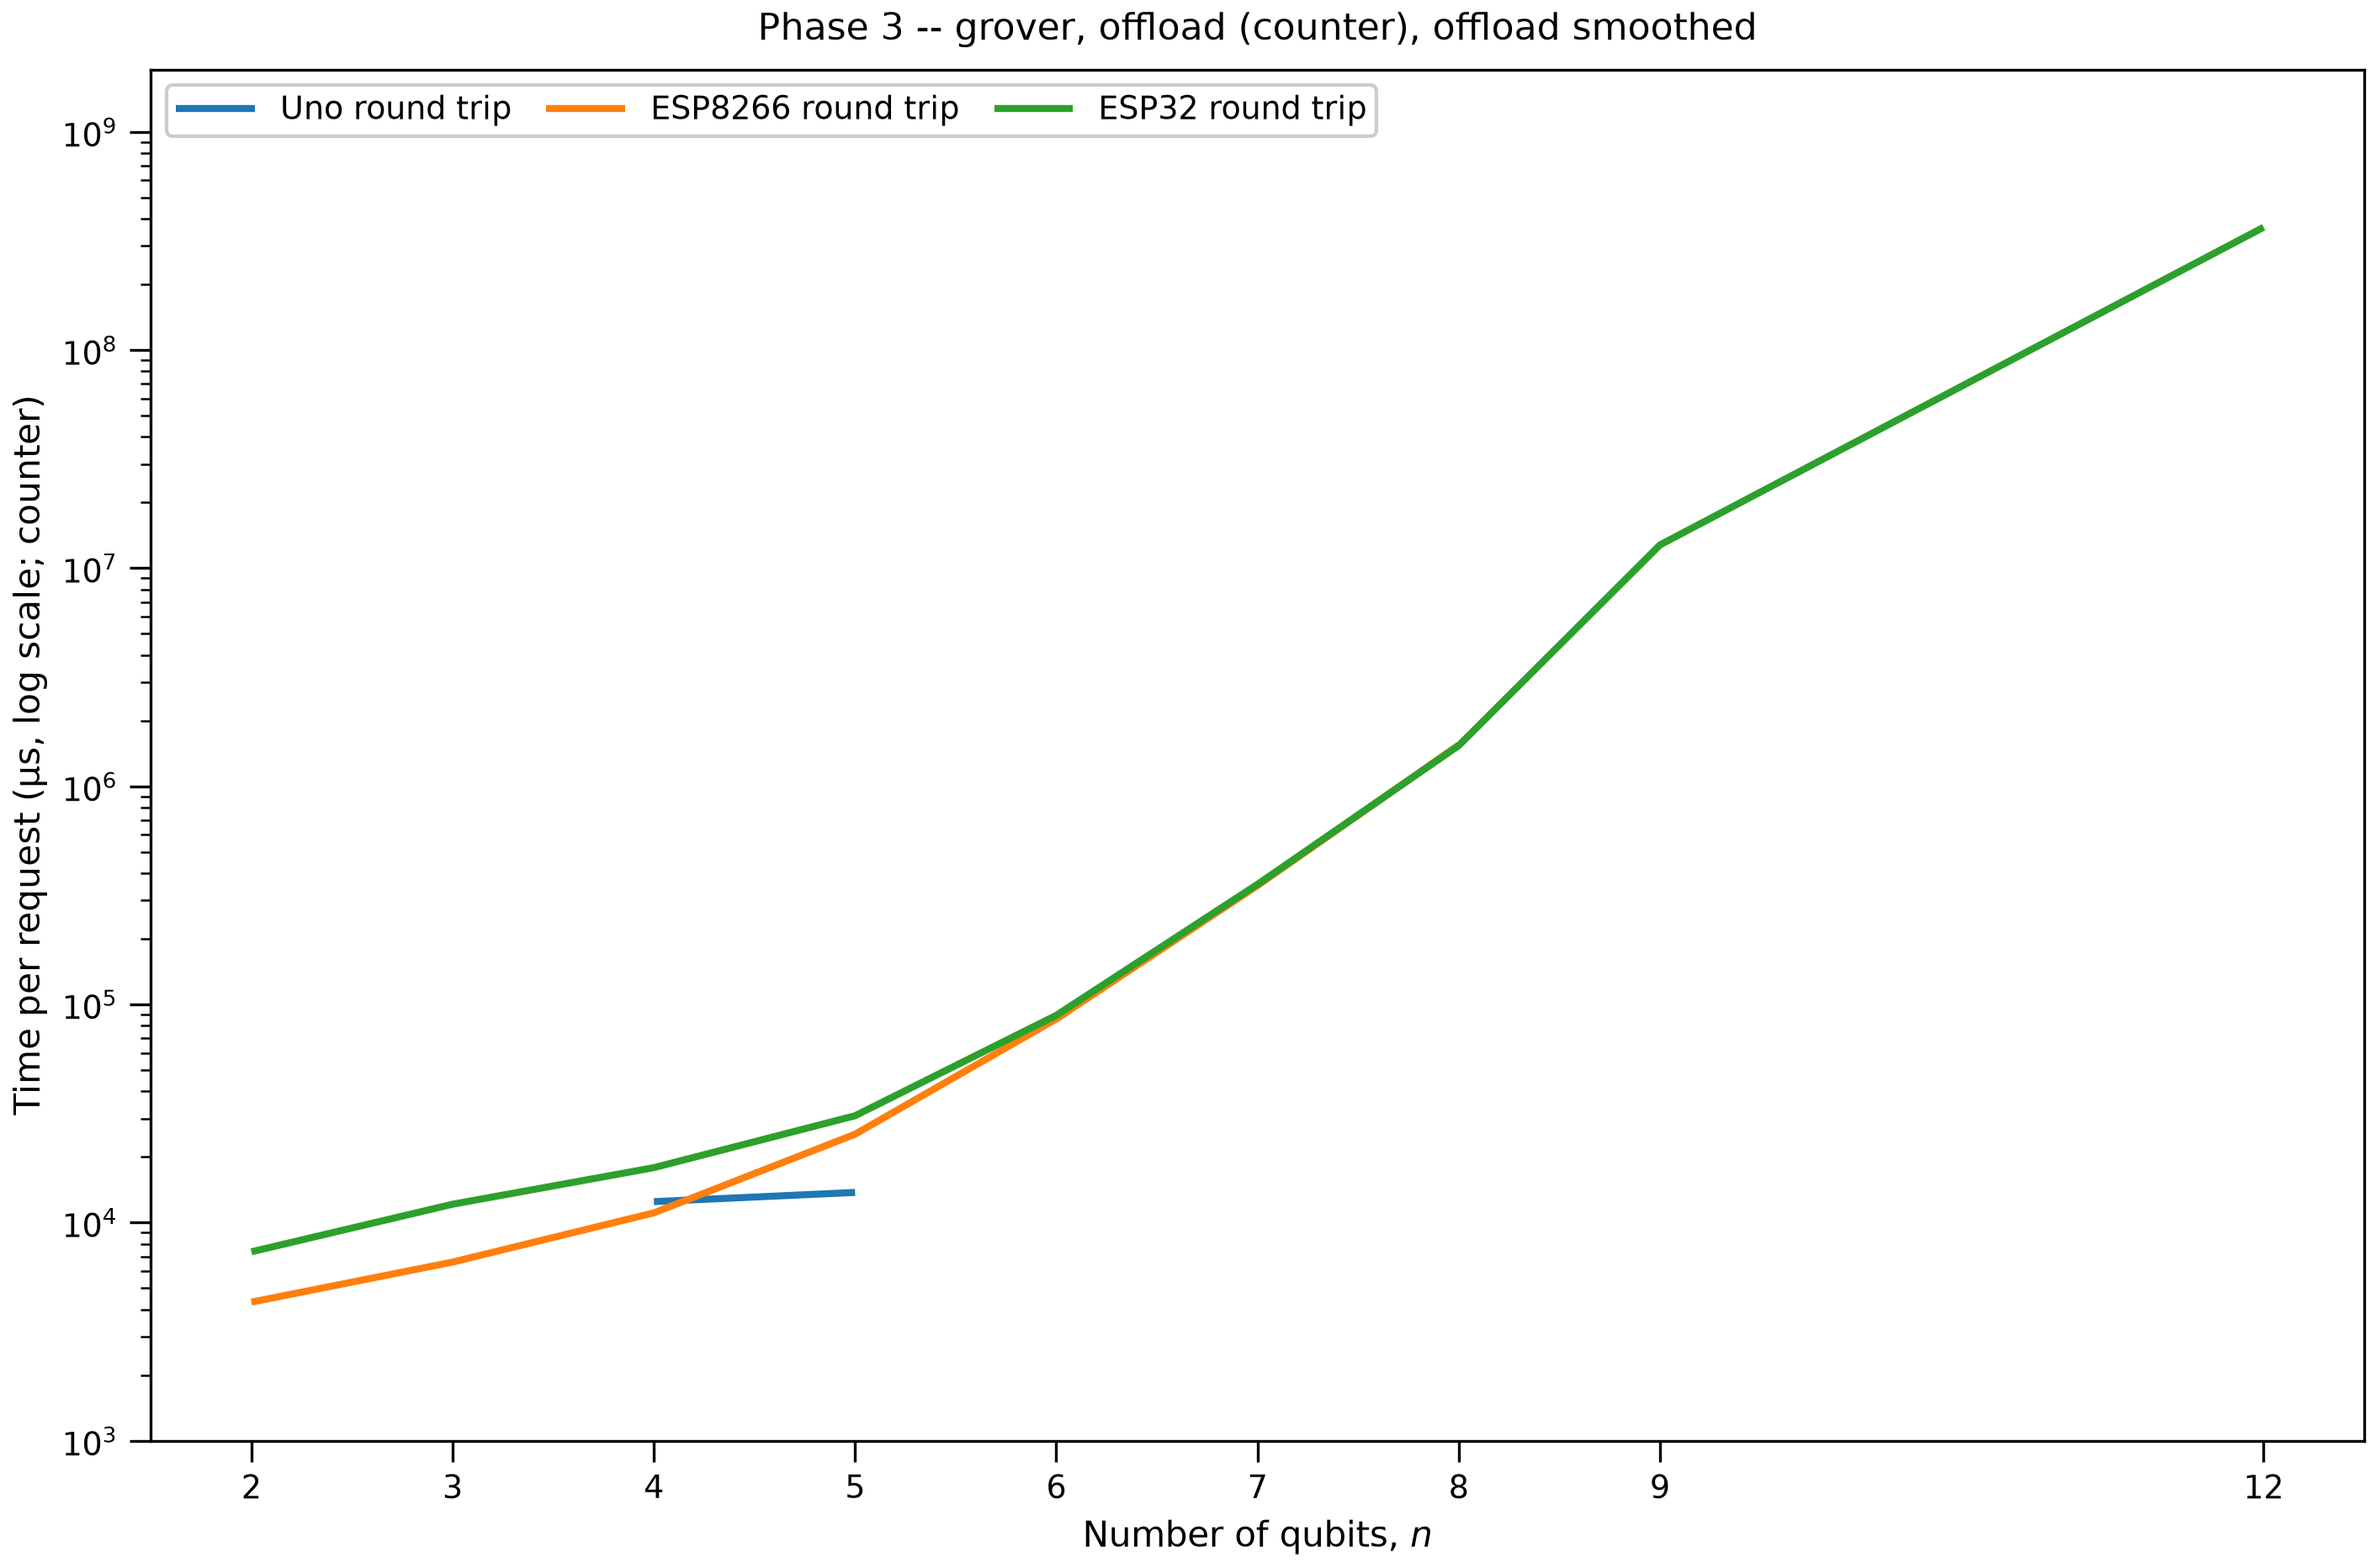
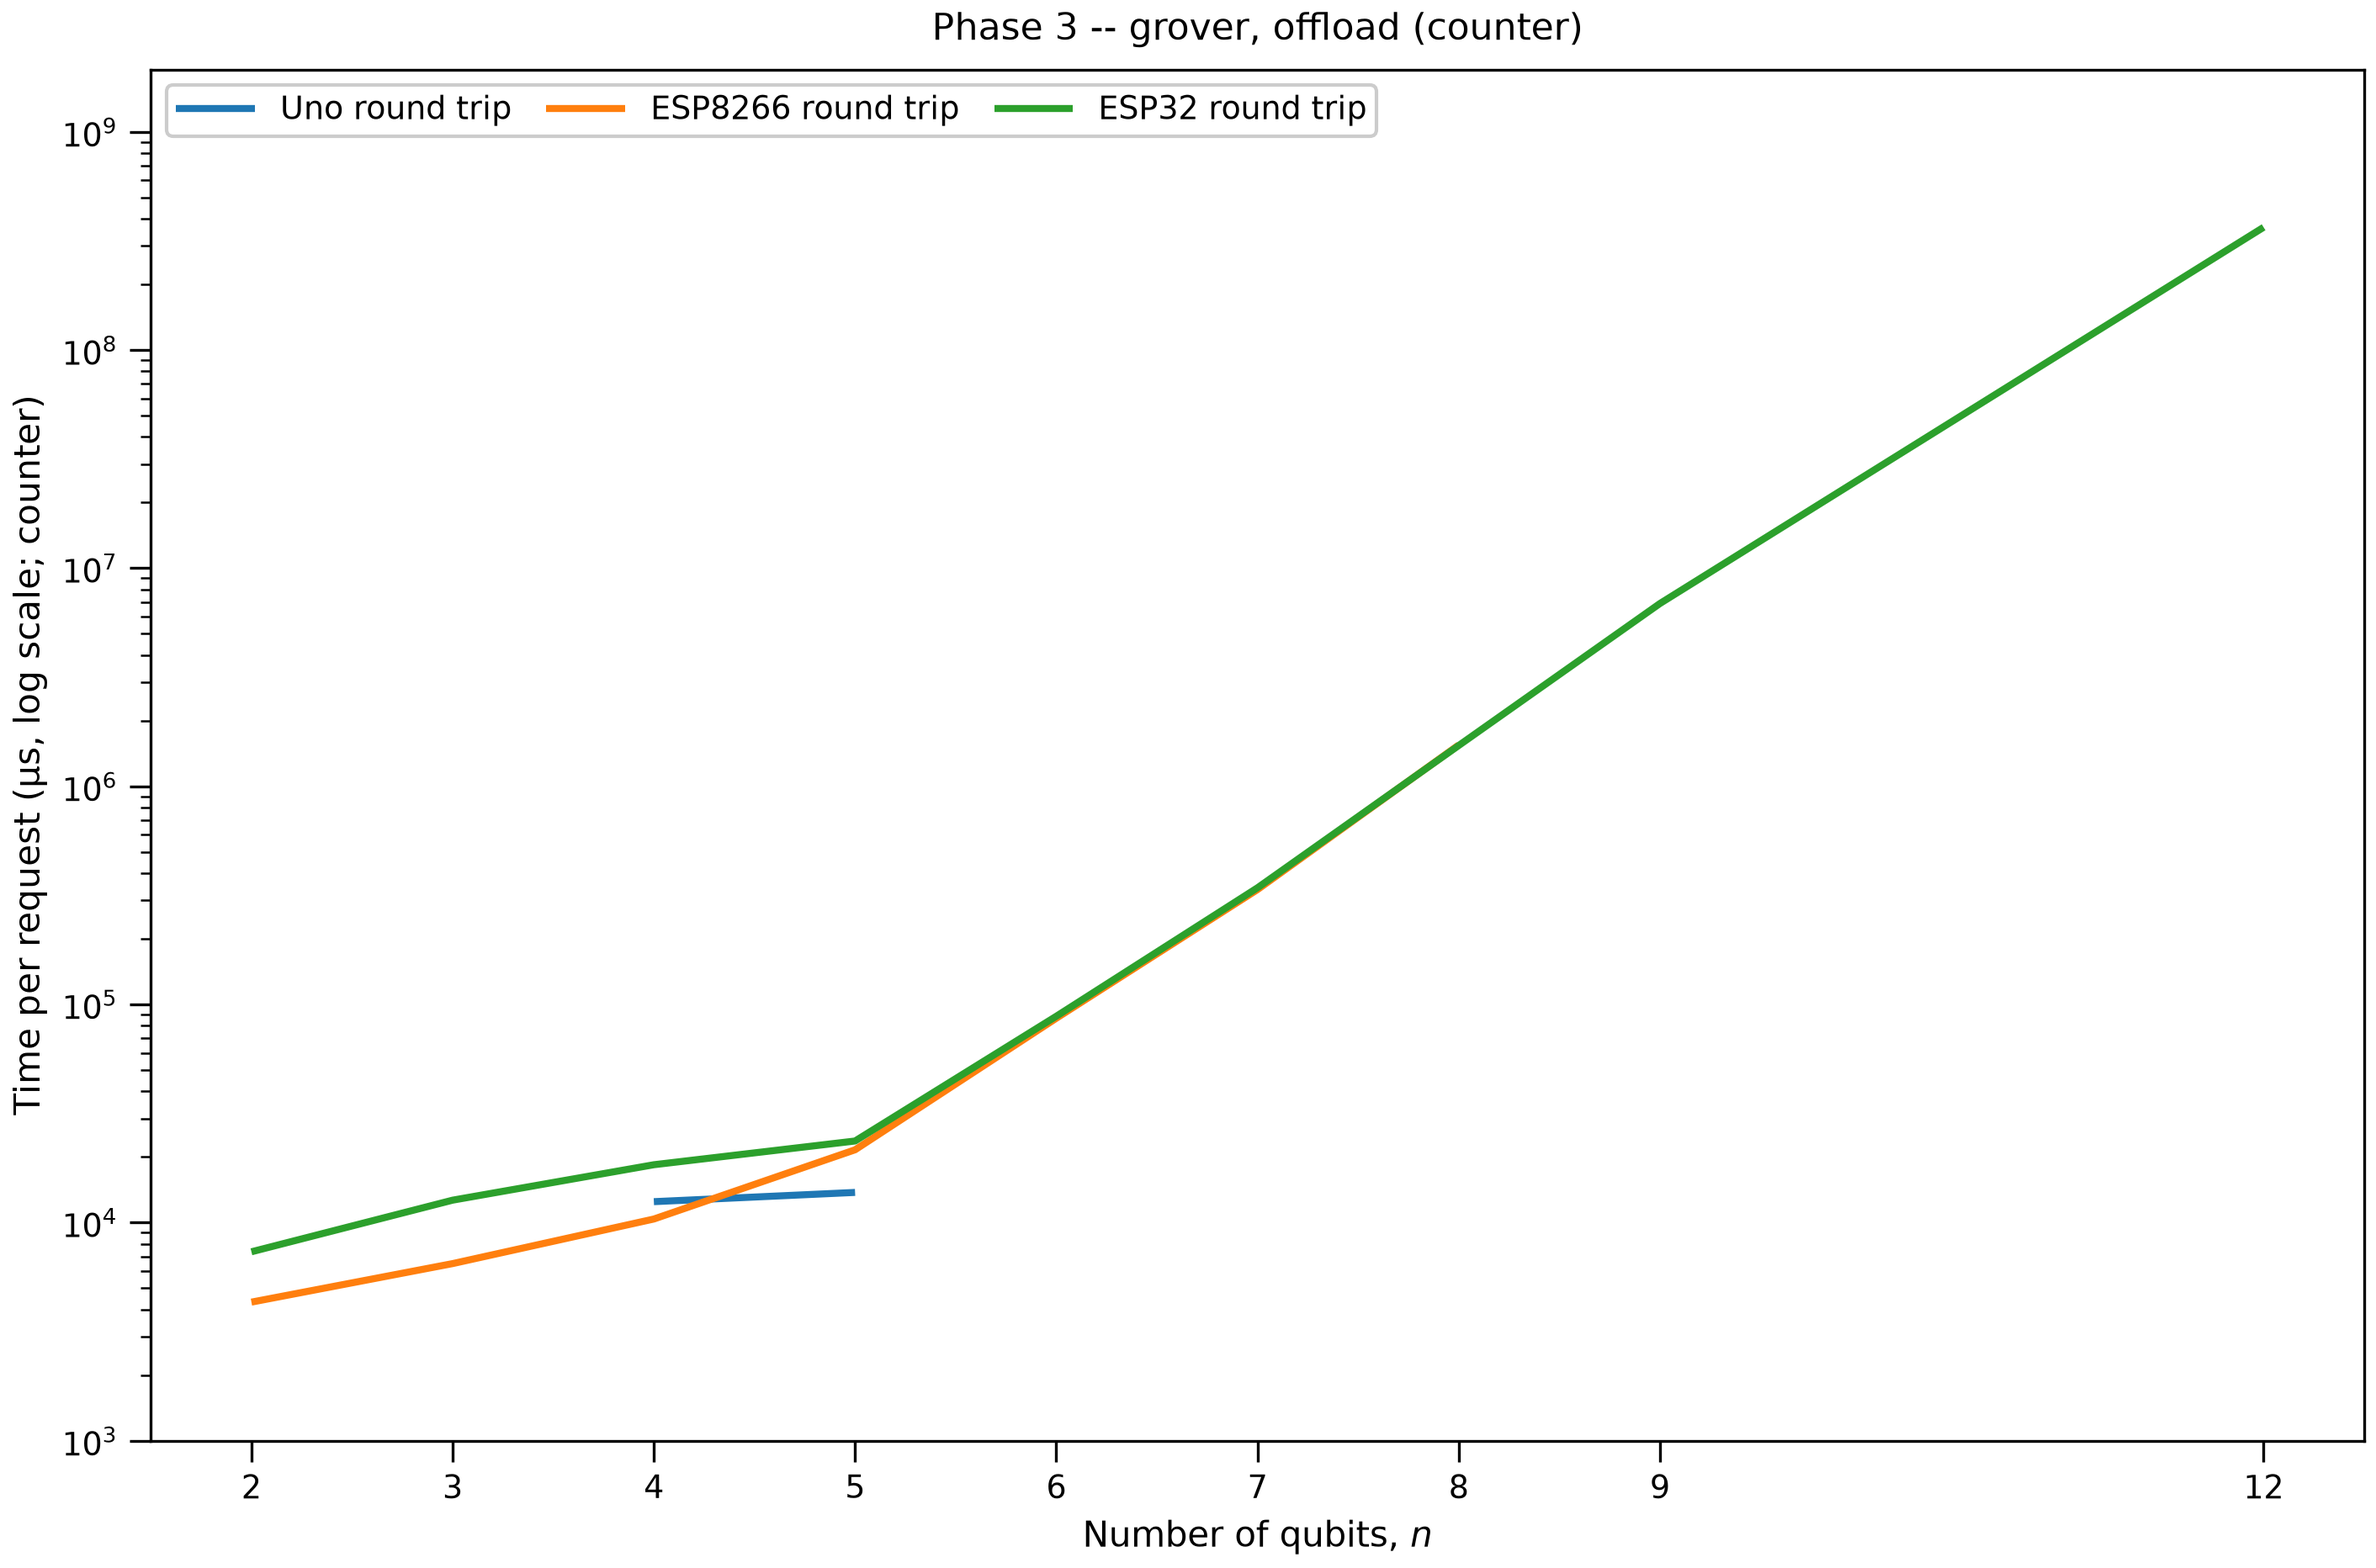
figures: algorithms charts back to measured values (no smoothing)
Claude-Session: https://claude.ai/code/session_01AE6WdfFceGc968bUQSKnsU

diff --git a/analysis/algorithm_house_plots.py b/analysis/algorithm_house_plots.py
@@ -1,7 +1,7 @@
 #!/usr/bin/env python3
 # algorithm_house_plots.py
 # One chart per circuit (three boards), in the house line-chart style of the graph-create skill (grouped log-y lines, no markers); group = board.
-# The offload (Phase 3) lines are smoothed for display; local lines are drawn as measured ([1,2,1]/4 average of log10 time over neighbouring points, end points kept); the title says so.
+# Lines are the measured counter medians, not smoothed (a crossover read from them must use the same values for local and offload) ([1,2,1]/4 average of log10 time over neighbouring points, end points kept); the title says so.
 # EVERY time here is the ESP32 reference counter's median pulse width of the point (data/derived/counter_validity.csv, selected sessions); the
 # board's own micros() is never drawn. Only points whose counter pair passed the validity rules (usable) are drawn; where a point is unusable the
 # line is drawn straight between the neighbouring usable points (no marker, so the gap is not visible: see the list printed at the end).
@@ -33,16 +33,6 @@ CIRC = ("h_all", "bell_ghz", "qft", "grover")
 PHASES = {2: ("Phase 2 -- {c}, local (counter)", [("local", 2)], "Time per run (µs, log scale; counter)"),
           3: ("Phase 3 -- {c}, offload (counter)", [("round trip", 3)], "Time per request (µs, log scale; counter)"),
           4: ("Phase 4 -- {c}, local vs offload (counter)", [("local", 2), ("offload", 3)], "Time per run (µs, log scale; counter)")}
-def smooth(vals):
-    """display smoothing only: [1, 2, 1] / 4 moving average of log10(time) over neighbouring points, the two end points are kept"""
-    v = np.log10(np.asarray(vals, float))
-    if len(v) < 3:
-        return list(10 ** v)
-    out = v.copy()
-    out[1:-1] = (v[:-2] + 2 * v[1:-1] + v[2:]) / 4
-    return list(10 ** out)
-
-
 for ph, (title, SER, ylab) in PHASES.items():
     for c in CIRC:
         rows = []
@@ -54,9 +44,9 @@ for ph, (title, SER, ylab) in PHASES.items():
             ns = set.intersection(*[set(v) for v in have.values()]) if ph == 4 else None
             for lab, src in SER:
                 pts = [(n, t) for n, t in sorted(have[lab].items()) if ns is None or n in ns]
-                rows += [{"n": n, "time_us": float(t), "board": NAME[b], "series": lab} for (n, _), t in zip(pts, smooth([t for _, t in pts]) if src == 3 else [t for _, t in pts])]
+                rows += [{"n": n, "time_us": float(t), "board": NAME[b], "series": lab} for n, t in pts]
         df = pd.DataFrame(rows)
-        fig, ax = plot_grouped_lines(df, "n", "time_us", "board", "series", title=title.format(c=c) + (", offload smoothed" if any(src == 3 for _, src in SER) else ""), xlabel="Number of qubits, $n$", ylabel=ylab,
+        fig, ax = plot_grouped_lines(df, "n", "time_us", "board", "series", title=title.format(c=c), xlabel="Number of qubits, $n$", ylabel=ylab,
                                      group_order=list(NAME.values()), series_order=[s for s, _ in SER])
         # y axis fitted to the data: limits on the whole decades around it (plus headroom for the legend), a label at every decade, minor ticks at 2..9
         lo, hi = df.time_us.min(), df.time_us.max()
